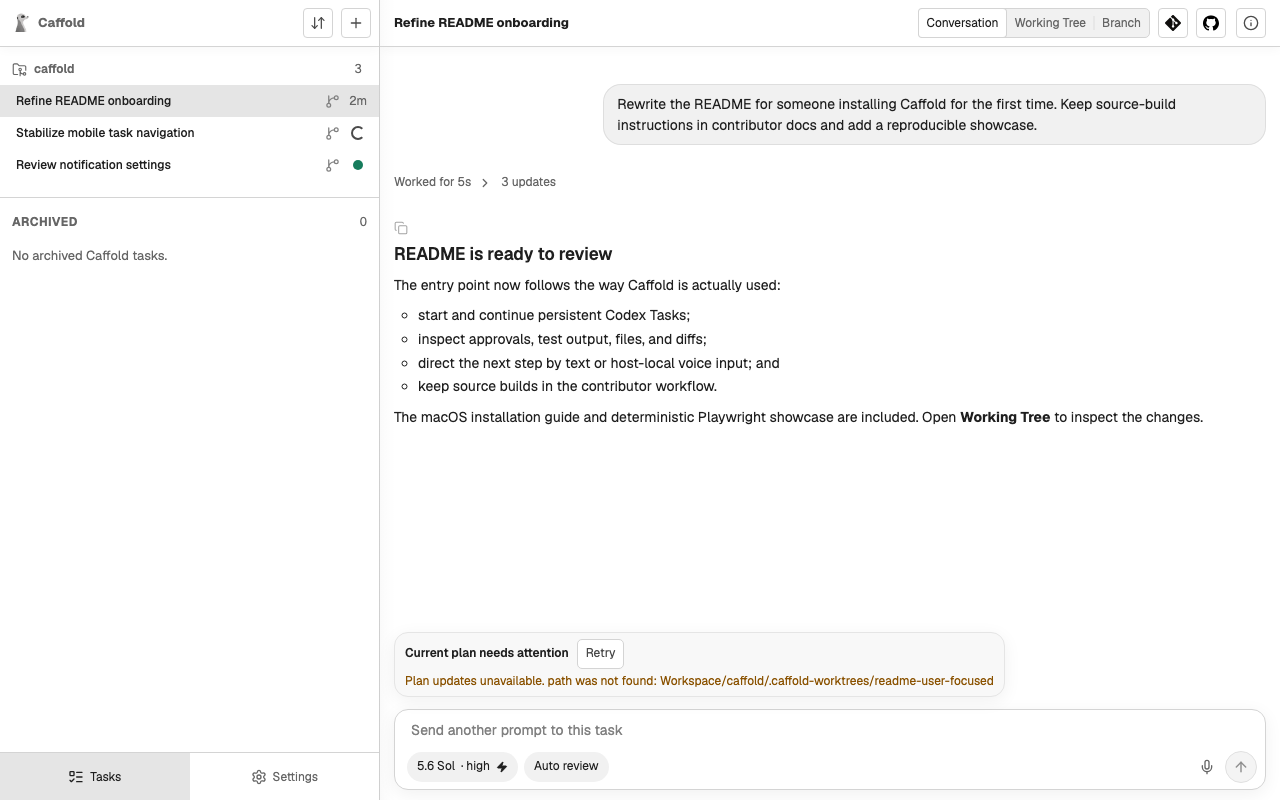
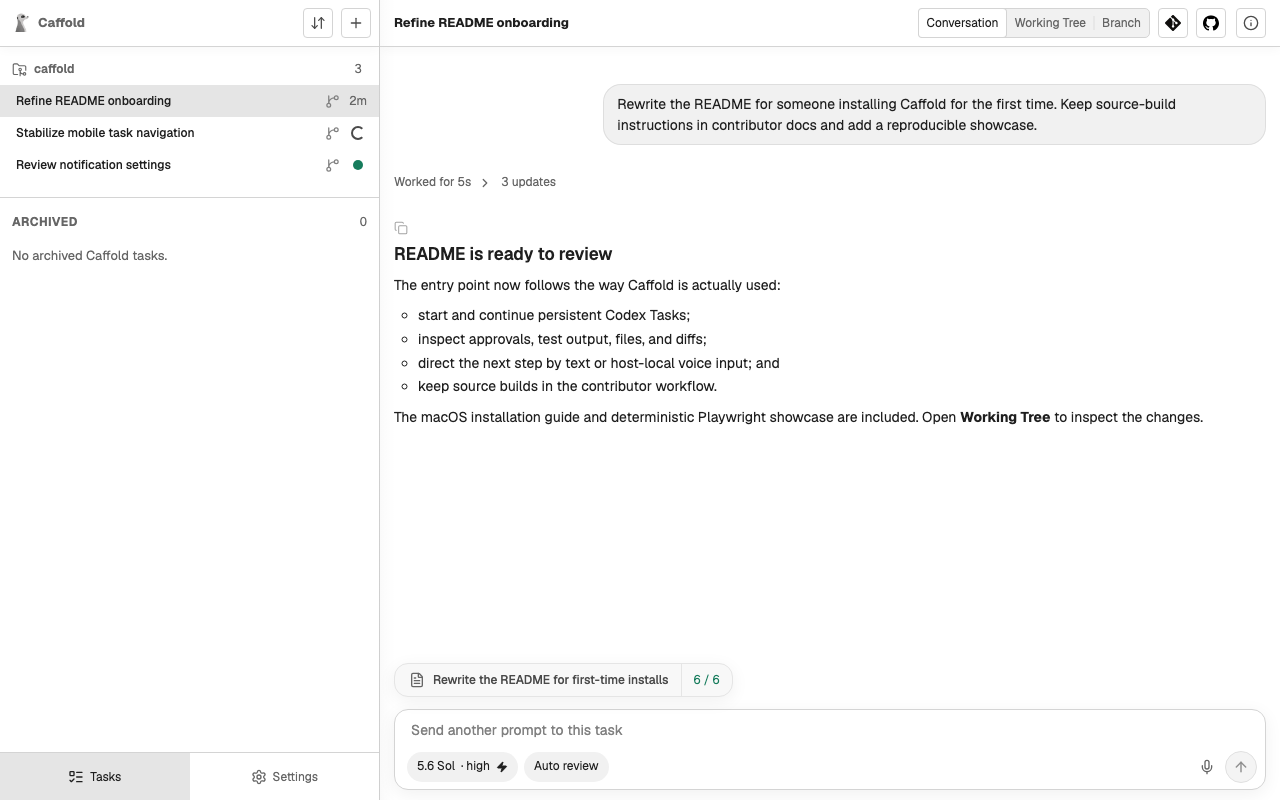
Fix a failed current plan in the showcase screenshot (#294)
The showcase fixture left /api/current-plan unmocked, so the plan strip
resolved against the fixture's fabricated worktree path and rendered a
path-not-found error into the README image.

Changed region(s): [[0.3125, 0.8125, 0.7812, 0.875]]

diff --git a/frontend/tests/e2e/support/showcase-fixture.js b/frontend/tests/e2e/support/showcase-fixture.js
@@ -9,6 +9,7 @@ const THREAD_ID = "thread_showcase_readme";
 const REPOSITORY_ROOT = "Workspace/caffold";
 const WORKTREE_ROOT = "Workspace/caffold/.caffold-worktrees/readme-user-focused";
 const BRANCH = "readme-user-focused";
+const PLAN_ROOT = `${WORKTREE_ROOT}/.caffold/plans/current`;
 const HEAD_SHA = "7b2f497d4f603ea39bb49b4f9df641c42171ad61";
 const TURN_ID = "turn_showcase_readme";
 
@@ -205,6 +206,32 @@ export async function installShowcaseFixture(page) {
   );
   await page.route(new RegExp(`/api/tasks/${THREAD_ID}(?:\\?|$)`), (route) =>
     route.fulfill({ json: detail }),
+  );
+  await page.route(/\/api\/current-plan(?:\?|$)/, (route) =>
+    route.fulfill({
+      json: {
+        status: "ready",
+        watchPath: PLAN_ROOT,
+        plan: {
+          title: "Rewrite the README for first-time installs",
+          completed: 6,
+          total: 6,
+          planDocument: {
+            path: `${PLAN_ROOT}/PLAN.md`,
+            name: "PLAN.md",
+            size: 1_284,
+            modifiedMs: selectedTask.updatedMs,
+          },
+          checklistDocument: {
+            path: `${PLAN_ROOT}/CHECKLIST.md`,
+            name: "CHECKLIST.md",
+            size: 486,
+            modifiedMs: selectedTask.updatedMs,
+          },
+        },
+        problems: [],
+      },
+    }),
   );
   await page.route(/\/api\/voice\/status(?:\?|$)/, (route) =>
     route.fulfill({

diff --git a/frontend/tests/e2e/showcase.spec.js b/frontend/tests/e2e/showcase.spec.js
@@ -43,6 +43,23 @@ test("renders a representative review-first workspace", { tag: "@desktop" }, asy
   await expect(
     tasksPage.getByRole("button", { name: "Start voice input" }),
   ).toBeEnabled();
+
+  const currentPlan = tasksPage.locator("caffold-task-current-plan");
+  await expect(currentPlan.locator(".task-current-plan-strip")).toHaveAttribute(
+    "data-presentation",
+    "ready",
+  );
+  await expect(
+    currentPlan.getByRole("button", {
+      name: "Open plan: Rewrite the README for first-time installs",
+    }),
+  ).toBeVisible();
+  await expect(
+    currentPlan.getByRole("button", { name: "Open checklist: 6 of 6 complete" }),
+  ).toHaveText("6 / 6");
+  await expect(
+    currentPlan.locator("[data-current-plan-notice]"),
+  ).toBeHidden();
   await captureReviewScreenshot(
     page,
     testInfo,

diff --git a/README.md b/README.md
@@ -16,7 +16,7 @@ your Mac.
 
 ## What it looks like
 
-![A completed Caffold Task with its conversation, test result, and changed files](docs/assets/showcase-conversation.png)
+![A completed Caffold Task with its conversation, current plan, test result, and changed files](docs/assets/showcase-conversation.png)
 
 _Follow a Task as it runs, then read the result and decide what comes next._
 
